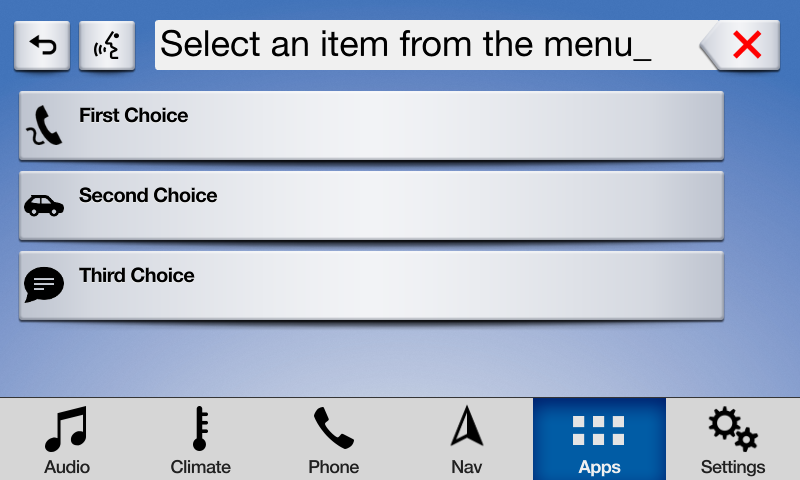
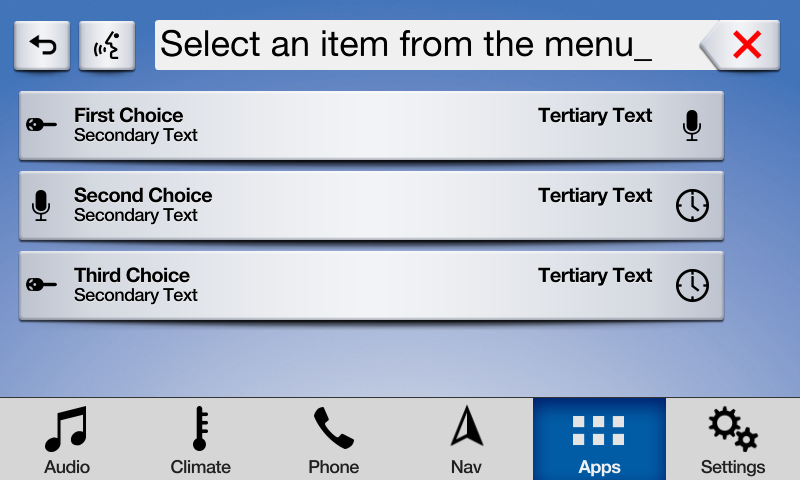
Choice Set image update (#208)
* Adding image to replace old one to show all possible choice set fields

* no message

diff --git a/docs/Displaying a User Interface/Popup Menus/index.md b/docs/Displaying a User Interface/Popup Menus/index.md
@@ -75,7 +75,7 @@ sdlManager.getScreenManager().preloadChoices(Arrays.asList(cell, fullCell), new 
 To show a popup menu to the user, you must present the menu. If some or all of the cells in the menu have not yet been preloaded, calling the `present` API will preload the cells and then present the menu once all the cells have been uploaded. Calling `present` without preloading the cells can take longer than if the cells were preloaded earlier in the app's lifecycle especially if your cell has voice commands. Subsequent menu presentations using the same cells will be faster because the library will reuse those cells (unless you have deleted them).
 
 ##### Menu - List
-![Generic - List Only Interaction Layout](assets/Generic_popup_menu_row.png)
+![SYNC 3 - List Only Interaction Layout](assets/SYNC3_popup_menu_row.jpg)
 
 ##### Menu - Icon
 ![SYNC 3 - Icon Only Interaction Layout](assets/SYNC3_popup_menu_tiles.jpg)
@@ -175,7 +175,7 @@ It may seem that the answer is to always use `both`. However, remember that you 
 | Both              | Interactions can occur both manually or through VR |
 
 ##### Menu - Manual Only Mode
-![Generic - Menu - Manual Only](assets/Generic_popup_menu_row.png)
+![SYNC 3 - Menu - Manual Only](assets/SYNC3_popup_menu_row.jpg)
 
 ##### Menu - Voice Only Mode
 ![SYNC 3 - Menu - Voice Only](assets/SYNC3_popup_menu_voice_recognition.jpg)
